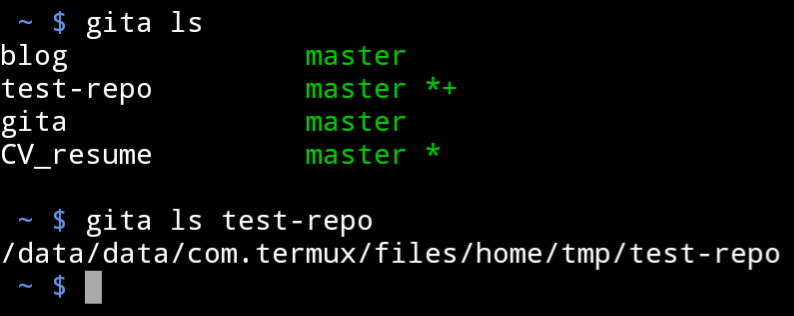
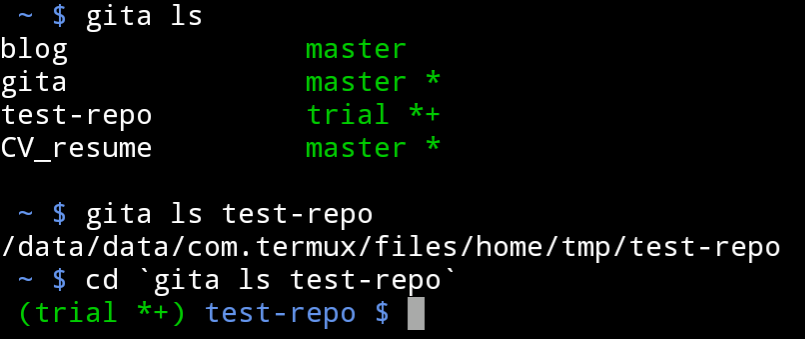
add rm option

Changed region(s): [[0.0, 0.5981, 0.9975, 0.9968], [0.0, 0.0, 0.272, 0.5411], [0.3627, 0.1139, 0.5743, 0.5411]]

diff --git a/gita/__main__.py b/gita/__main__.py
@@ -42,6 +42,16 @@ def f_ls(args):
         print(ls.describe(repos))
 
 
+def f_rm(args):
+    repos = update_repos()
+    del repos[args.repo]
+    path_file = os.path.join(
+            os.path.expanduser('~'), '.gita_path')
+    if os.path.exists(path_file):
+        with open(path_file, 'w') as f:
+            f.write(os.pathsep.join(repos.values()))
+
+
 def main(argv=None):
     p = argparse.ArgumentParser()
     subparsers = p.add_subparsers()
@@ -49,13 +59,19 @@ def main(argv=None):
     p_ls = subparsers.add_parser('ls', description='display all repos')
     p_ls.add_argument('repo', nargs='?',
             choices=update_repos(),
-            help="show the directory of the chosen repo")
+            help="show directory of the chosen repo")
     p_ls.set_defaults(func=f_ls)
 
     p_add = subparsers.add_parser('add')
     p_add.add_argument('repo', nargs='+',
             help="add repositories")
     p_add.set_defaults(func=f_add)
+
+    p_rm = subparsers.add_parser('rm')
+    p_rm.add_argument('repo', nargs='?',
+            choices=update_repos(),
+            help="remove the chosen repo")
+    p_rm.set_defaults(func=f_rm)
 
     args = p.parse_args(argv)
 

diff --git a/tests/test_main.py b/tests/test_main.py
@@ -7,6 +7,13 @@ def test_ls():
 #    __main__.main(['ls', 'a-repo'])
 
 
+def test_rm(monkeypatch):
+    monkeypatch.setattr(__main__, 'update_repos',
+            lambda: {'repo1':'/a/', 'repo2':'/b/'})
+    monkeypatch.setattr('os.path.exists', lambda x: False)  # bypass the fwrite
+    __main__.main(['rm', 'repo1'])
+
+
 def test_add():
     __main__.main(['add', '/home/some/repo/'])
 

diff --git a/README.md b/README.md
@@ -1,25 +1,27 @@
 [![Build Status](https://travis-ci.org/nosarthur/gita.svg?branch=master)](https://travis-ci.org/nosarthur/gita)
-# A commandline tool to view multiple git repos
+# A command-line tool to view multiple git repos
 
-Often times multiple git repos are related and it helps to see their status (branch, modification) side by side.
-
-```
-python3 -m gita
-```
-
-* `gita add`: add repo path
-* `gita ls`: display the status of all repos
-* `gita ls <repo>`: display the absolute path of the specified repo. One can then enter that directory using ``cd `gita ls <repo>` ``
-
-A screenshot is below
+Often times multiple git repos are related and it helps to see their status (branch, modification) side by side,
+as in the following screenshot:
 
 ![gita screenshot](https://github.com/nosarthur/gita/raw/master/screenshot.png)
 
+The supported commands are
+
+* `gita add <repo-path>`: add repo path
+* `gita rm <repo-name>`: remove repo
+* `gita ls`: display the status of all repos
+* `gita ls <repo-name>`: display the absolute path of the specified repo. One can then enter that directory using ``cd `gita ls <repo>` ``
 
 The repo paths are saved in `~/.gita_path`
 
 ## installation
 
 Download the source and take a look at the Makefile. Or just `pip3 install -e .`.
+
+I also put the following line in my .bashrc
+```
+alias gita="python3 -m gita"
+```
 
 ## TODO
